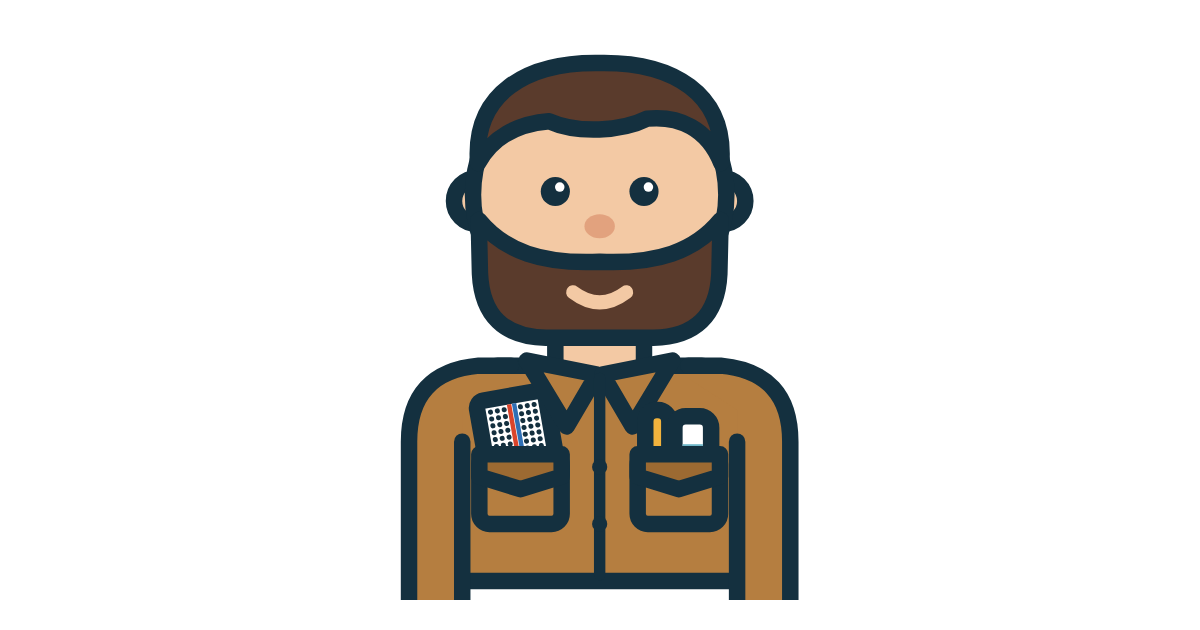
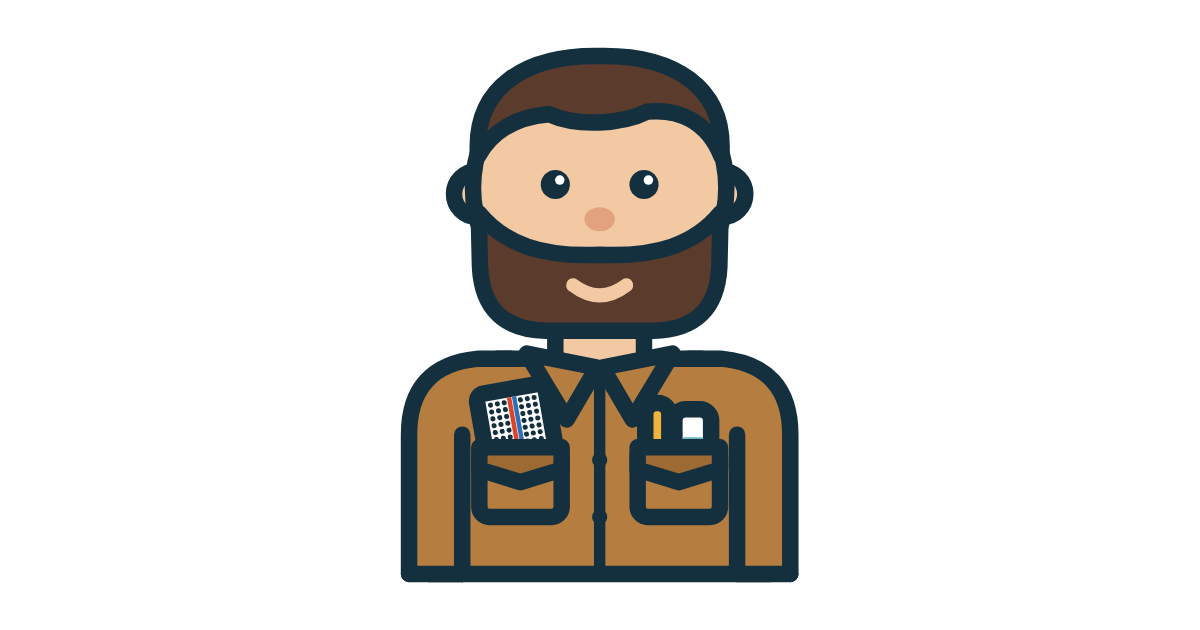
Link preview: sleeves end level with the bottom of the shirt
Claude-Session: https://claude.ai/code/session_016BwnKwMceey9joAJi8jCUY

diff --git a/CLAUDE.md b/CLAUDE.md
@@ -54,7 +54,8 @@ one.
 - `assets/images/breadboard-bay-sign.svg`: the logo, two wooden plank signs reading
   BREADBOARD / BAY (not shown anywhere on the site at the moment).
 - `assets/images/share.png`: the link preview picture (1200 × 630, the character alone on a see-through
-  background), set for every page in `_config.yml`. Rebuild it from `scientist.svg` if the character changes.
+  background, his sleeves ending level with the bottom of his shirt), set for every page in `_config.yml`.
+  Rebuild it from `scientist.svg` if the character changes.
 - Behind the character in the home card's photo: one solid color, the bottom of the ocean gradient
   (`--sea-bottom`: `#9CC3CF` light, `#2C5062` dark).
 
